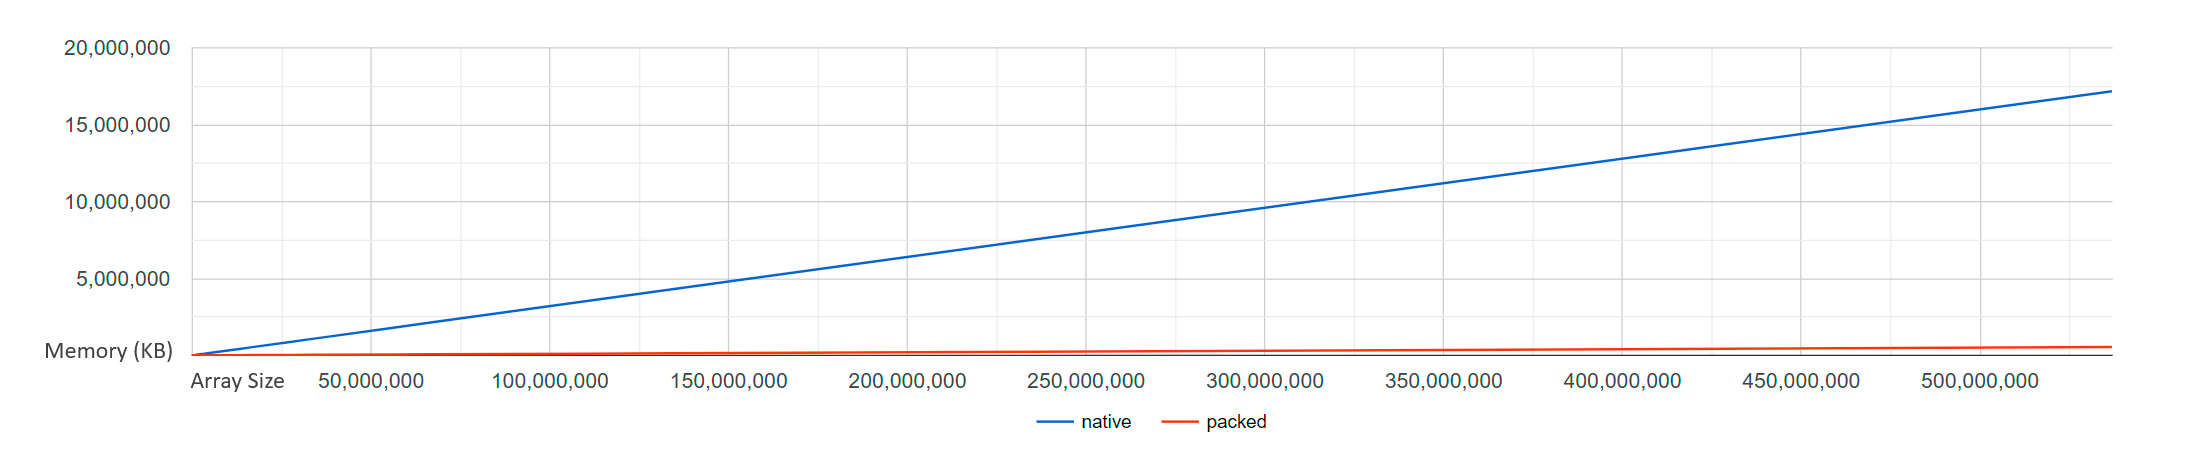
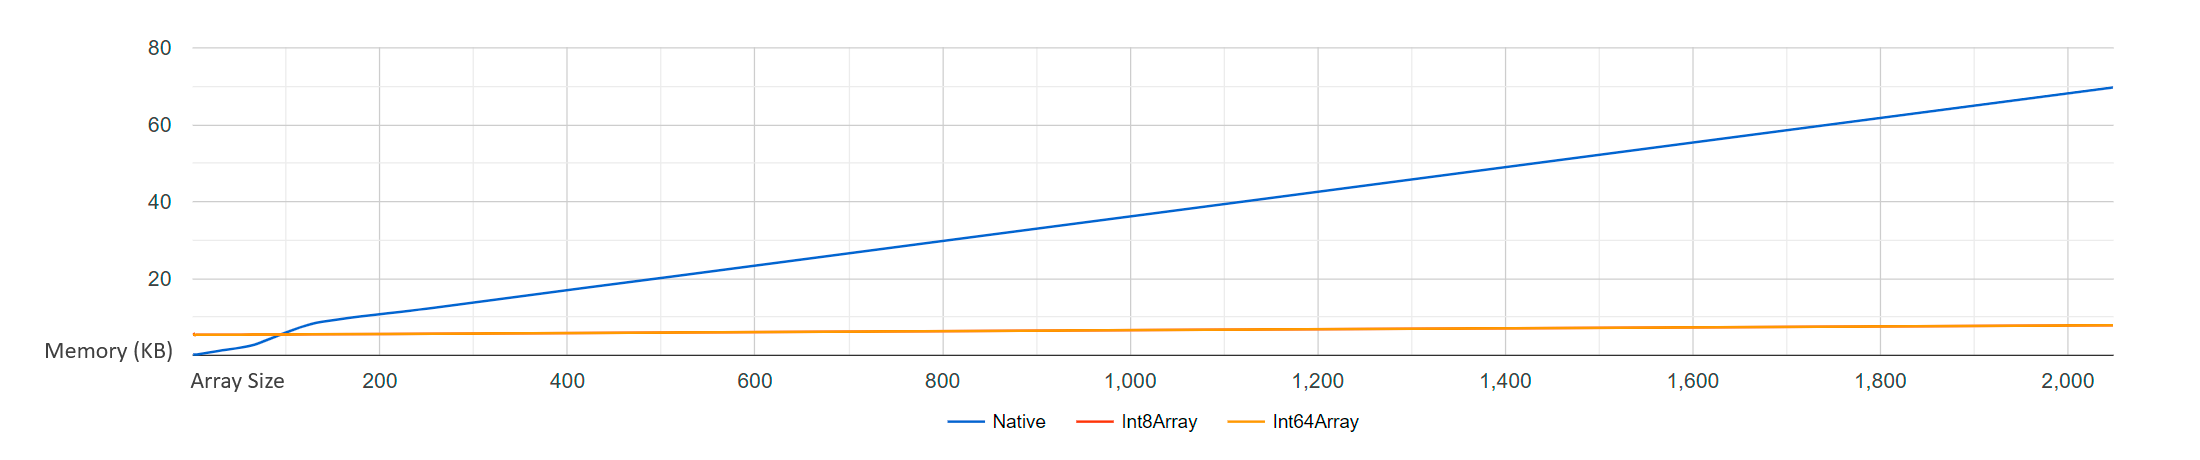
Improve and fix memory bench graphs

diff --git a/bin/memory-usage.php b/bin/memory-usage.php
@@ -1,14 +1,15 @@
 <?php
 
-const SAMPLES = 30;
+const SAMPLES = 12;
 const EXEC_FROM = __DIR__ . '/memory-usage';
 const EXEC_INTO = __DIR__ . '/../resources';
 
 for ($i = 0, $size = 1, $result = []; $i < SAMPLES; ++$i) {
     $result[] = [
         'size' => $size,
-        'native' => ((int)exec('php ' . EXEC_FROM . "/native.php $size") / 1000),
-        'packed' => ((int)exec('php ' . EXEC_FROM . "/packed.php $size") / 1000),
+        'Native' => ((int)exec('php ' . EXEC_FROM . "/native.php $size") / 1000),
+        'Int8Array' => ((int)exec('php ' . EXEC_FROM . "/packed-int8.php $size") / 1000),
+        'Int64Array' => ((int)exec('php ' . EXEC_FROM . "/packed-int64.php $size") / 1000),
     ];
 
     $size *= 2;

diff --git a/bin/memory-usage/packed-int8.php b/bin/memory-usage/packed-int8.php
@@ -1,0 +1,19 @@
+<?php
+
+\ini_set('memory_limit', -1);
+
+$before = \memory_get_usage();
+
+require __DIR__ . '/../../src/TypedArrayInterface.php';
+require __DIR__ . '/../../src/IntArrayInterface.php';
+require __DIR__ . '/../../src/TypedArray.php';
+require __DIR__ . '/../../src/Int8Array.php';
+
+$result = new \Serafim\PackedArray\Int8Array(
+    \str_repeat("\0", (int)$argv[1])
+);
+
+echo \memory_get_usage() - $before;
+
+// Save the refcount > 0: Disable the GC
+isset($result);

diff --git a/bin/memory-usage/packed-int64.php b/bin/memory-usage/packed-int64.php
@@ -1,12 +1,15 @@
 <?php
 
+\ini_set('memory_limit', -1);
+
 $before = \memory_get_usage();
 
 require __DIR__ . '/../../src/TypedArrayInterface.php';
+require __DIR__ . '/../../src/IntArrayInterface.php';
 require __DIR__ . '/../../src/TypedArray.php';
-require __DIR__ . '/../../src/Int8Array.php';
+require __DIR__ . '/../../src/Int64Array.php';
 
-$result = new \Serafim\PackedArray\Int8Array(
+$result = new \Serafim\PackedArray\Int64Array(
     \str_repeat("\0", (int)$argv[1])
 );
 

diff --git a/bin/memory-usage/native.php b/bin/memory-usage/native.php
@@ -1,5 +1,7 @@
 <?php
 
+\ini_set('memory_limit', -1);
+
 $before = \memory_get_usage();
 
 $result = \range(0, (int)$argv[1]);
